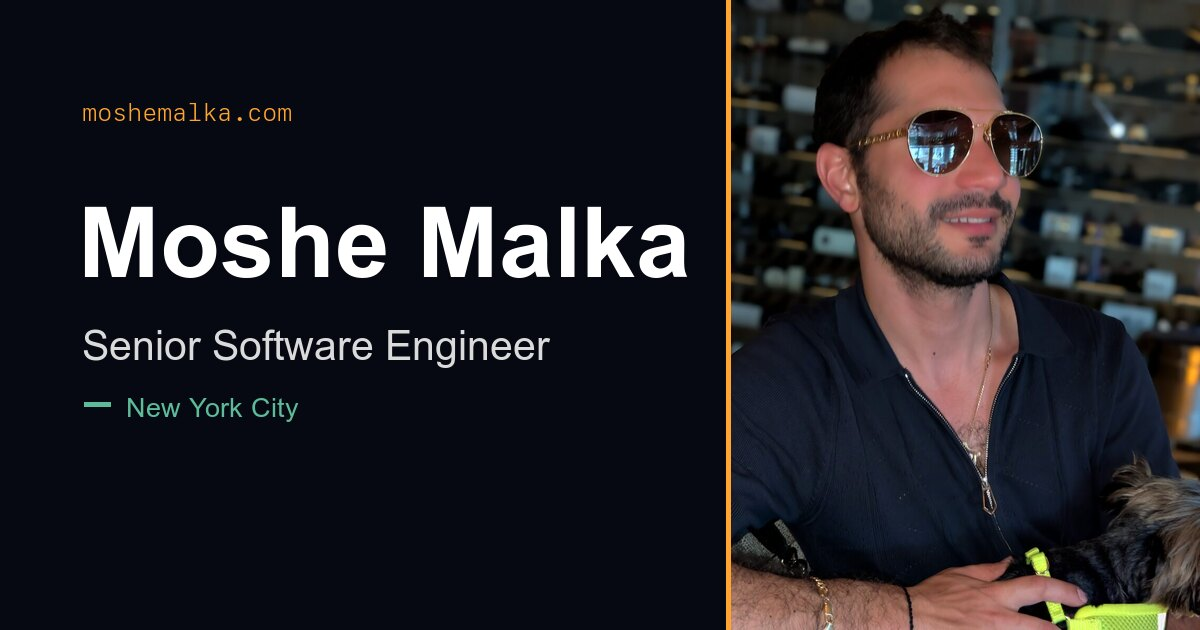
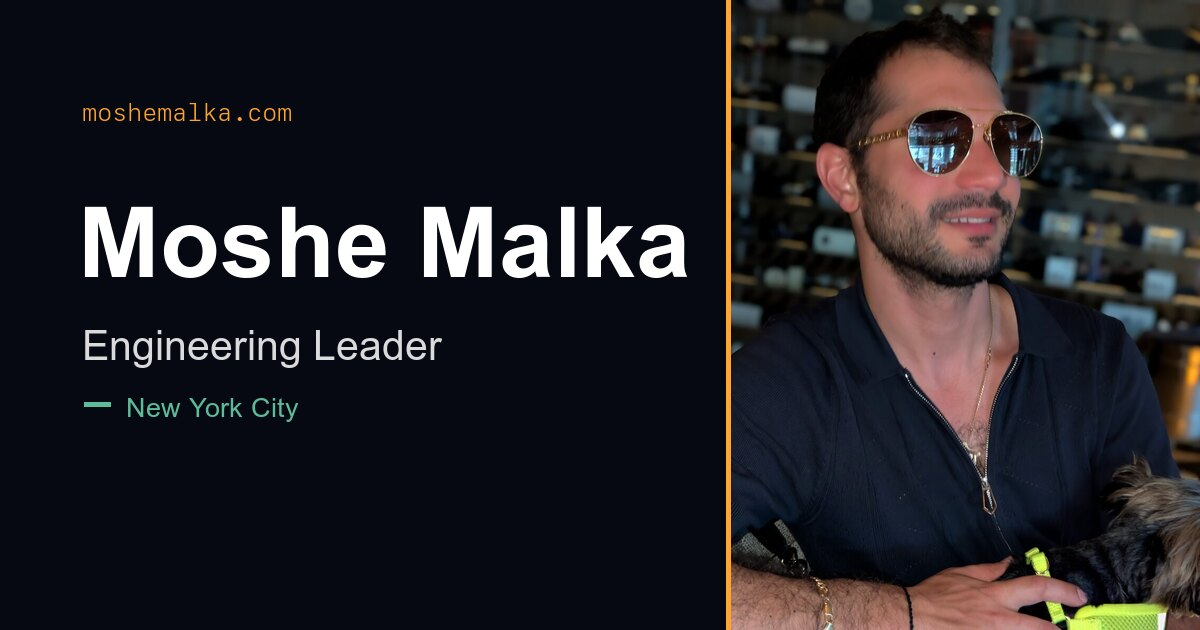
Reposition as "Engineering Leader" + strengthen entity signals
Follow-up to the entity SEO work (#13). The SERP for "Moshe Malka" is a
namesake field (a prominent rabbi, Miami/Brooklyn real-estate agents, an
Israeli painter), so the play is sharper entity disambiguation + a positioning
consistent with the owner's LinkedIn.

- Reposition "Senior Software Engineer" -> "Engineering Leader" across title,
  meta/OG/Twitter, JSON-LD jobTitle + ProfilePage name, and the visible hero
  eyebrow. Description now reflects the LinkedIn bio (two decades, leads/mentors
  teams, works with AI).
- Person schema: add homeLocation (New York City) to geo-separate from the
  Miami agent / Israeli painter; expand knowsAbout with Engineering Leadership,
  Artificial Intelligence, Team Leadership.
- Add owned Instagram (justmoshemalka) to sameAs — now 4 reciprocal profiles
  (LinkedIn, GitHub/moshejs, Stack Overflow, Instagram).
- Regenerate the 1200x630 OG card to read "Engineering Leader".

Verified: build + export succeed; JSON-LD valid; no stale "Senior Software
Engineer" strings remain in the output.

Changed region(s): [[0.0617, 0.5127, 0.4625, 0.573]]

diff --git a/pages/index.tsx b/pages/index.tsx
@@ -42,9 +42,9 @@ const mono = JetBrains_Mono({
 const SITE_URL = "https://moshemalka.com";
 
 const SEO = {
-  title: "Moshe Malka — Senior Software Engineer",
+  title: "Moshe Malka — Engineering Leader",
   description:
-    "Moshe Malka is a New York City–born senior software engineer building fast, reliable software — from trading systems to web platforms. See his work and get in touch.",
+    "Moshe Malka is a New York City engineering leader with two decades building software and mentoring teams — now working with AI to ship products that last.",
   ogImage: `${SITE_URL}/og-image.jpg`,
 };
 
@@ -60,24 +60,29 @@ const STRUCTURED_DATA = {
       name: "Moshe Malka",
       url: `${SITE_URL}/`,
       image: `${SITE_URL}/moshe.jpg`,
-      jobTitle: "Senior Software Engineer",
-      description: "New York City–born senior software engineer.",
+      jobTitle: "Engineering Leader",
+      description:
+        "New York City engineering leader with two decades building software and mentoring teams, now working with AI.",
       email: "hello@moshemalka.com",
       birthPlace: { "@type": "Place", name: "New York City, NY, USA" },
+      homeLocation: { "@type": "Place", name: "New York City, NY, USA" },
       nationality: { "@type": "Country", name: "United States" },
       knowsAbout: [
         "Software Engineering",
+        "Engineering Leadership",
+        "Artificial Intelligence",
+        "Team Leadership",
         "Web Development",
         "TypeScript",
         "React",
         "Next.js",
         "Distributed Systems",
-        "Trading Systems",
       ],
       sameAs: [
         "https://www.linkedin.com/in/moshenyc/",
         "https://github.com/moshejs",
         "https://stackoverflow.com/users/7381252/moshe",
+        "https://www.instagram.com/justmoshemalka/",
       ],
     },
     {
@@ -93,7 +98,7 @@ const STRUCTURED_DATA = {
       "@type": "ProfilePage",
       "@id": `${SITE_URL}/#webpage`,
       url: `${SITE_URL}/`,
-      name: "Moshe Malka — Senior Software Engineer",
+      name: "Moshe Malka — Engineering Leader",
       isPartOf: { "@id": `${SITE_URL}/#website` },
       about: { "@id": `${SITE_URL}/#person` },
       mainEntity: { "@id": `${SITE_URL}/#person` },
@@ -3741,7 +3746,7 @@ export default function Home() {
         <meta property="og:image" content={SEO.ogImage} />
         <meta property="og:image:width" content="1200" />
         <meta property="og:image:height" content="630" />
-        <meta property="og:image:alt" content="Moshe Malka — Senior Software Engineer" />
+        <meta property="og:image:alt" content="Moshe Malka — Engineering Leader" />
         <meta property="og:locale" content="en_US" />
         <meta property="profile:first_name" content="Moshe" />
         <meta property="profile:last_name" content="Malka" />
@@ -3751,7 +3756,7 @@ export default function Home() {
         <meta name="twitter:title" content={SEO.title} />
         <meta name="twitter:description" content={SEO.description} />
         <meta name="twitter:image" content={SEO.ogImage} />
-        <meta name="twitter:image:alt" content="Moshe Malka — Senior Software Engineer" />
+        <meta name="twitter:image:alt" content="Moshe Malka — Engineering Leader" />
 
         {/* Structured data — Person / WebSite / ProfilePage */}
         <script
@@ -3778,7 +3783,7 @@ export default function Home() {
             </div>
             <div>
               <div className="mm-reveal">
-                <SectionMarker>Moshe Malka — Senior Software Engineer</SectionMarker>
+                <SectionMarker>Moshe Malka — Engineering Leader</SectionMarker>
               </div>
 
               <HeroHeading />
